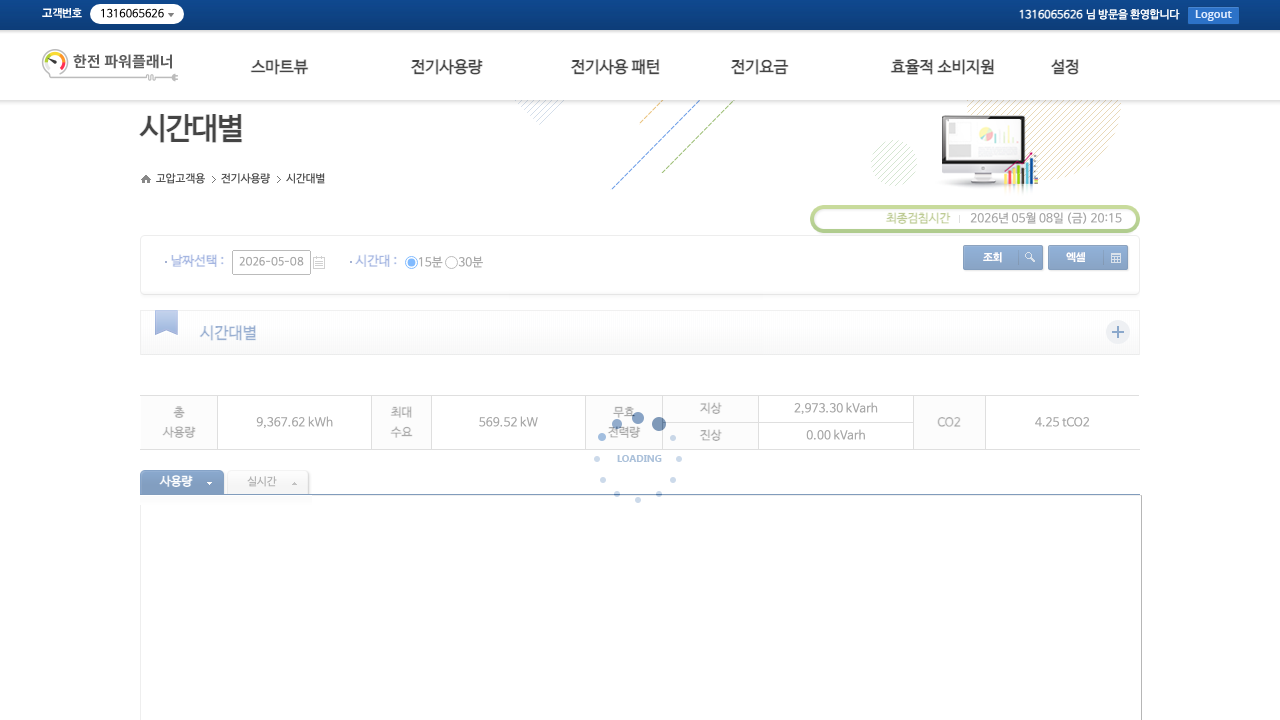
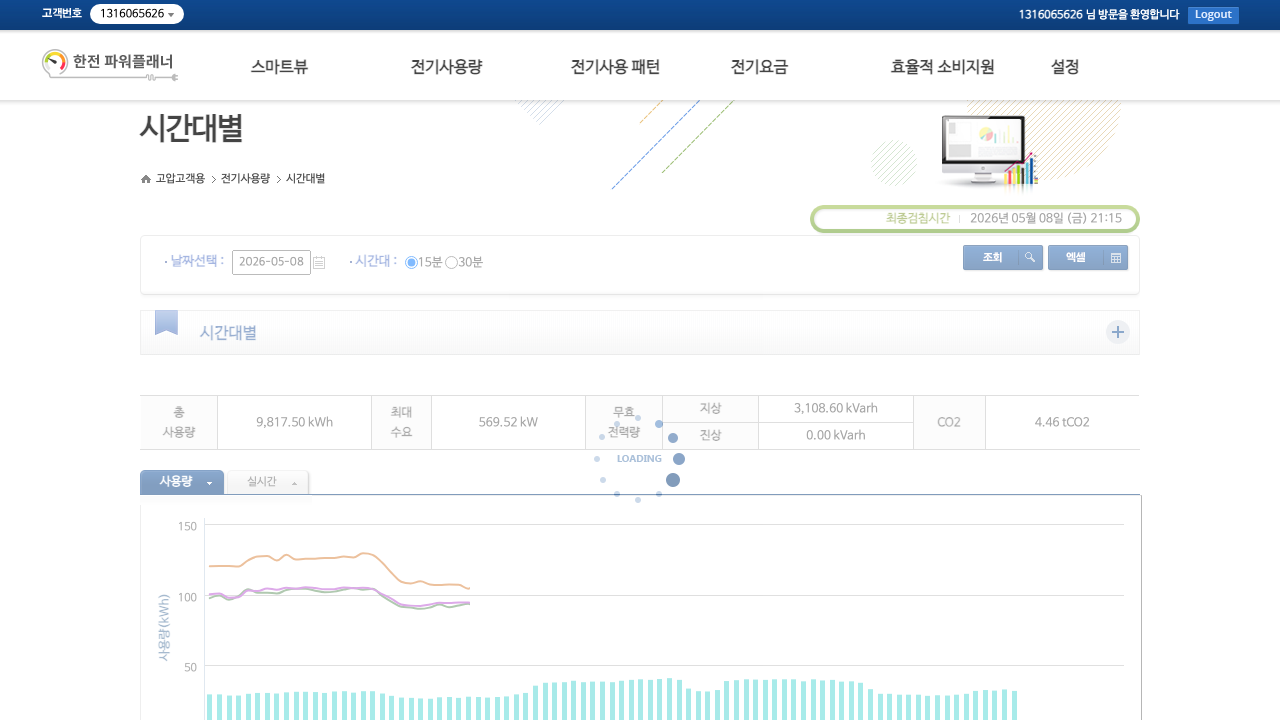
배포: p_screenshots/hourly_2026-05-08.png, pp_screenshots/result_2026-05-08.png, static/dev_history.json, templates/education.html, pp_downloads/d337b76f-0b47-4dfa-b425-1cac8e520558, pp_downloads/pp_20260508_220029.xls

diff --git a/templates/education.html b/templates/education.html
@@ -126,17 +126,22 @@
         </div>
         {% endif %}
 
-        <!-- ④ 미이수자 -->
+        <!-- ④ 미이수자 (토글) -->
         {% if s.not_completed_count > 0 %}
-        <div style="margin-top:8px;display:flex;align-items:flex-start;gap:8px;">
-            <span style="font-size:0.75rem;color:#6b7280;white-space:nowrap;padding-top:2px;">미이수</span>
-            <div class="not-list" style="margin-top:0;">
-                {% for e in s.not_completed %}
-                <span class="not-chip">{{ e.name }}{% if e.dept %} ({{ e.dept }}){% endif %}</span>
-                {% endfor %}
-                {% if s.not_completed_count > 5 %}
-                <span class="more-chip">+{{ s.not_completed_count - 5 }}명</span>
-                {% endif %}
+        <div style="margin-top:8px;">
+            <button class="btn btn-xs btn-outline-secondary" style="font-size:0.72rem;padding:2px 10px;"
+                    onclick="toggleMiisu(this)">
+                미이수 {{ s.not_completed_count }}명 보기 ▾
+            </button>
+            <div class="miisu-list" style="display:none;margin-top:6px;">
+                <div class="not-list">
+                    {% for e in s.not_completed %}
+                    <span class="not-chip">{{ e.name }}{% if e.dept %} ({{ e.dept }}){% endif %}</span>
+                    {% endfor %}
+                    {% if s.not_completed_count > 5 %}
+                    <span class="more-chip">+{{ s.not_completed_count - 5 }}명</span>
+                    {% endif %}
+                </div>
             </div>
         </div>
         {% endif %}
@@ -145,5 +150,13 @@
     {% endfor %}
 </div>
 <script src="https://cdn.jsdelivr.net/npm/bootstrap@5.3.3/dist/js/bootstrap.bundle.min.js"></script>
+<script>
+function toggleMiisu(btn) {
+    var list = btn.nextElementSibling;
+    var open = list.style.display !== 'none';
+    list.style.display = open ? 'none' : 'block';
+    btn.textContent = open ? btn.textContent.replace('▴','▾') : btn.textContent.replace('▾','▴');
+}
+</script>
 </body>
 </html>
